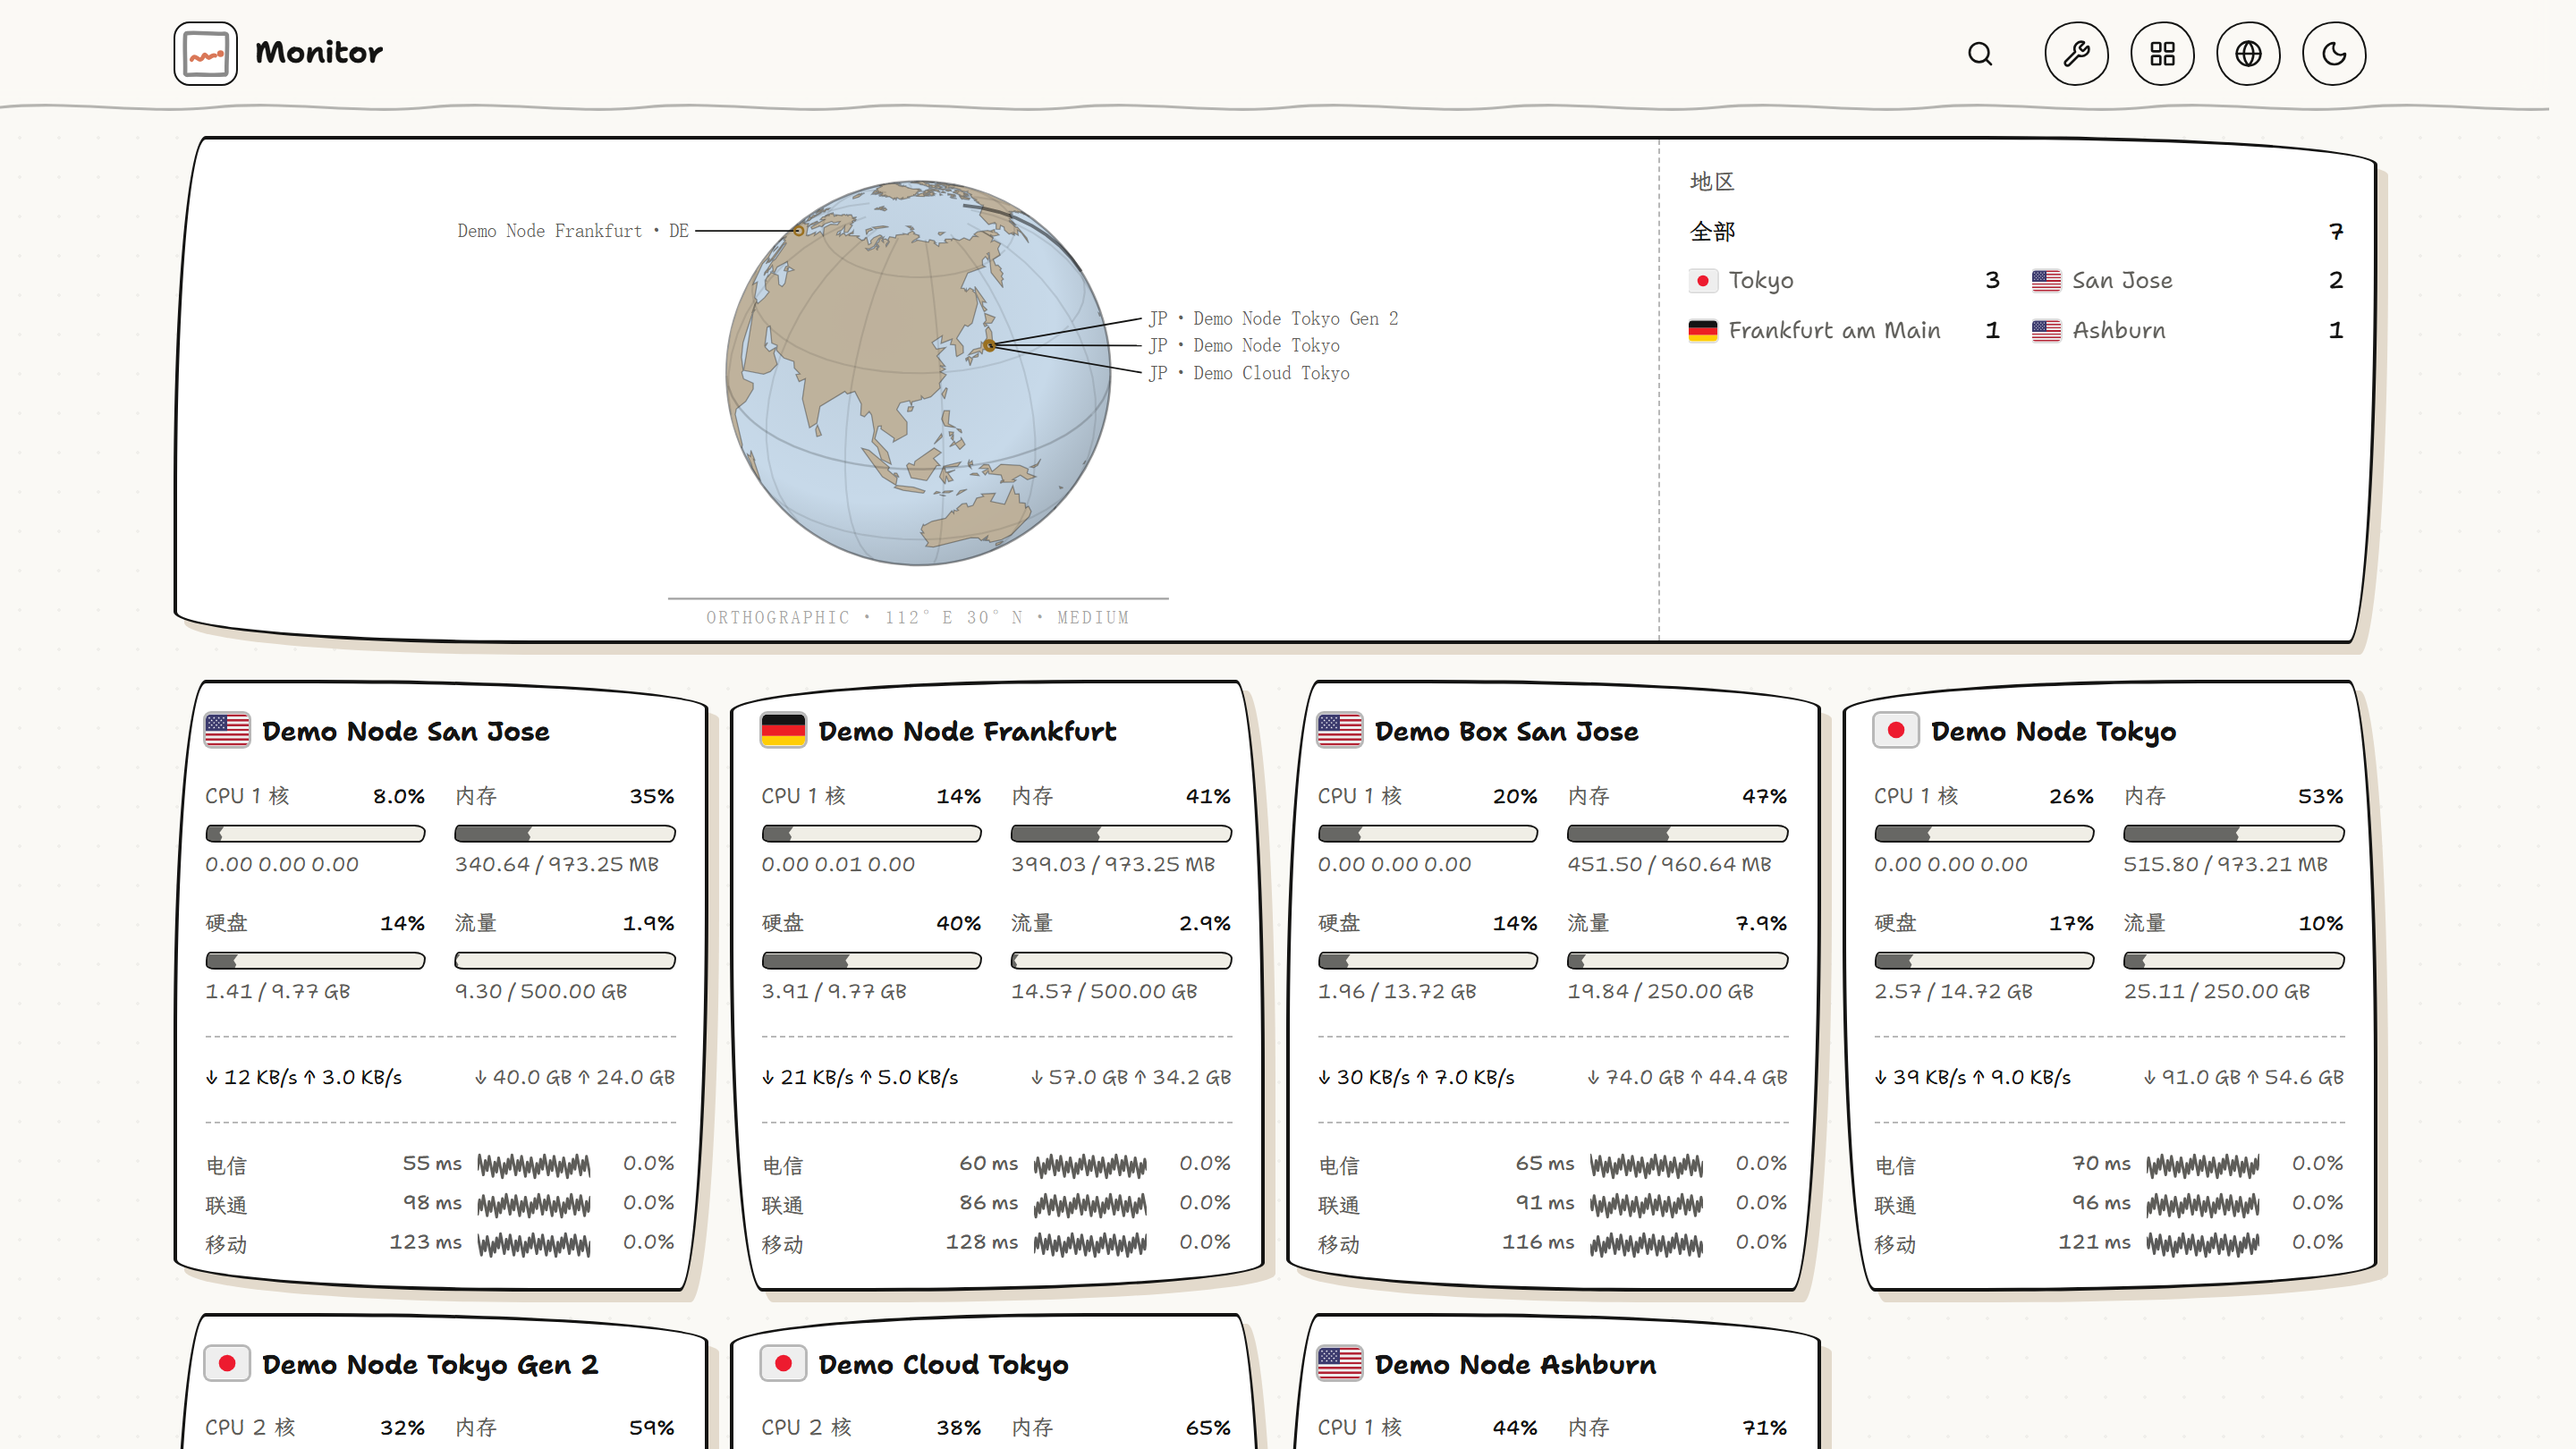
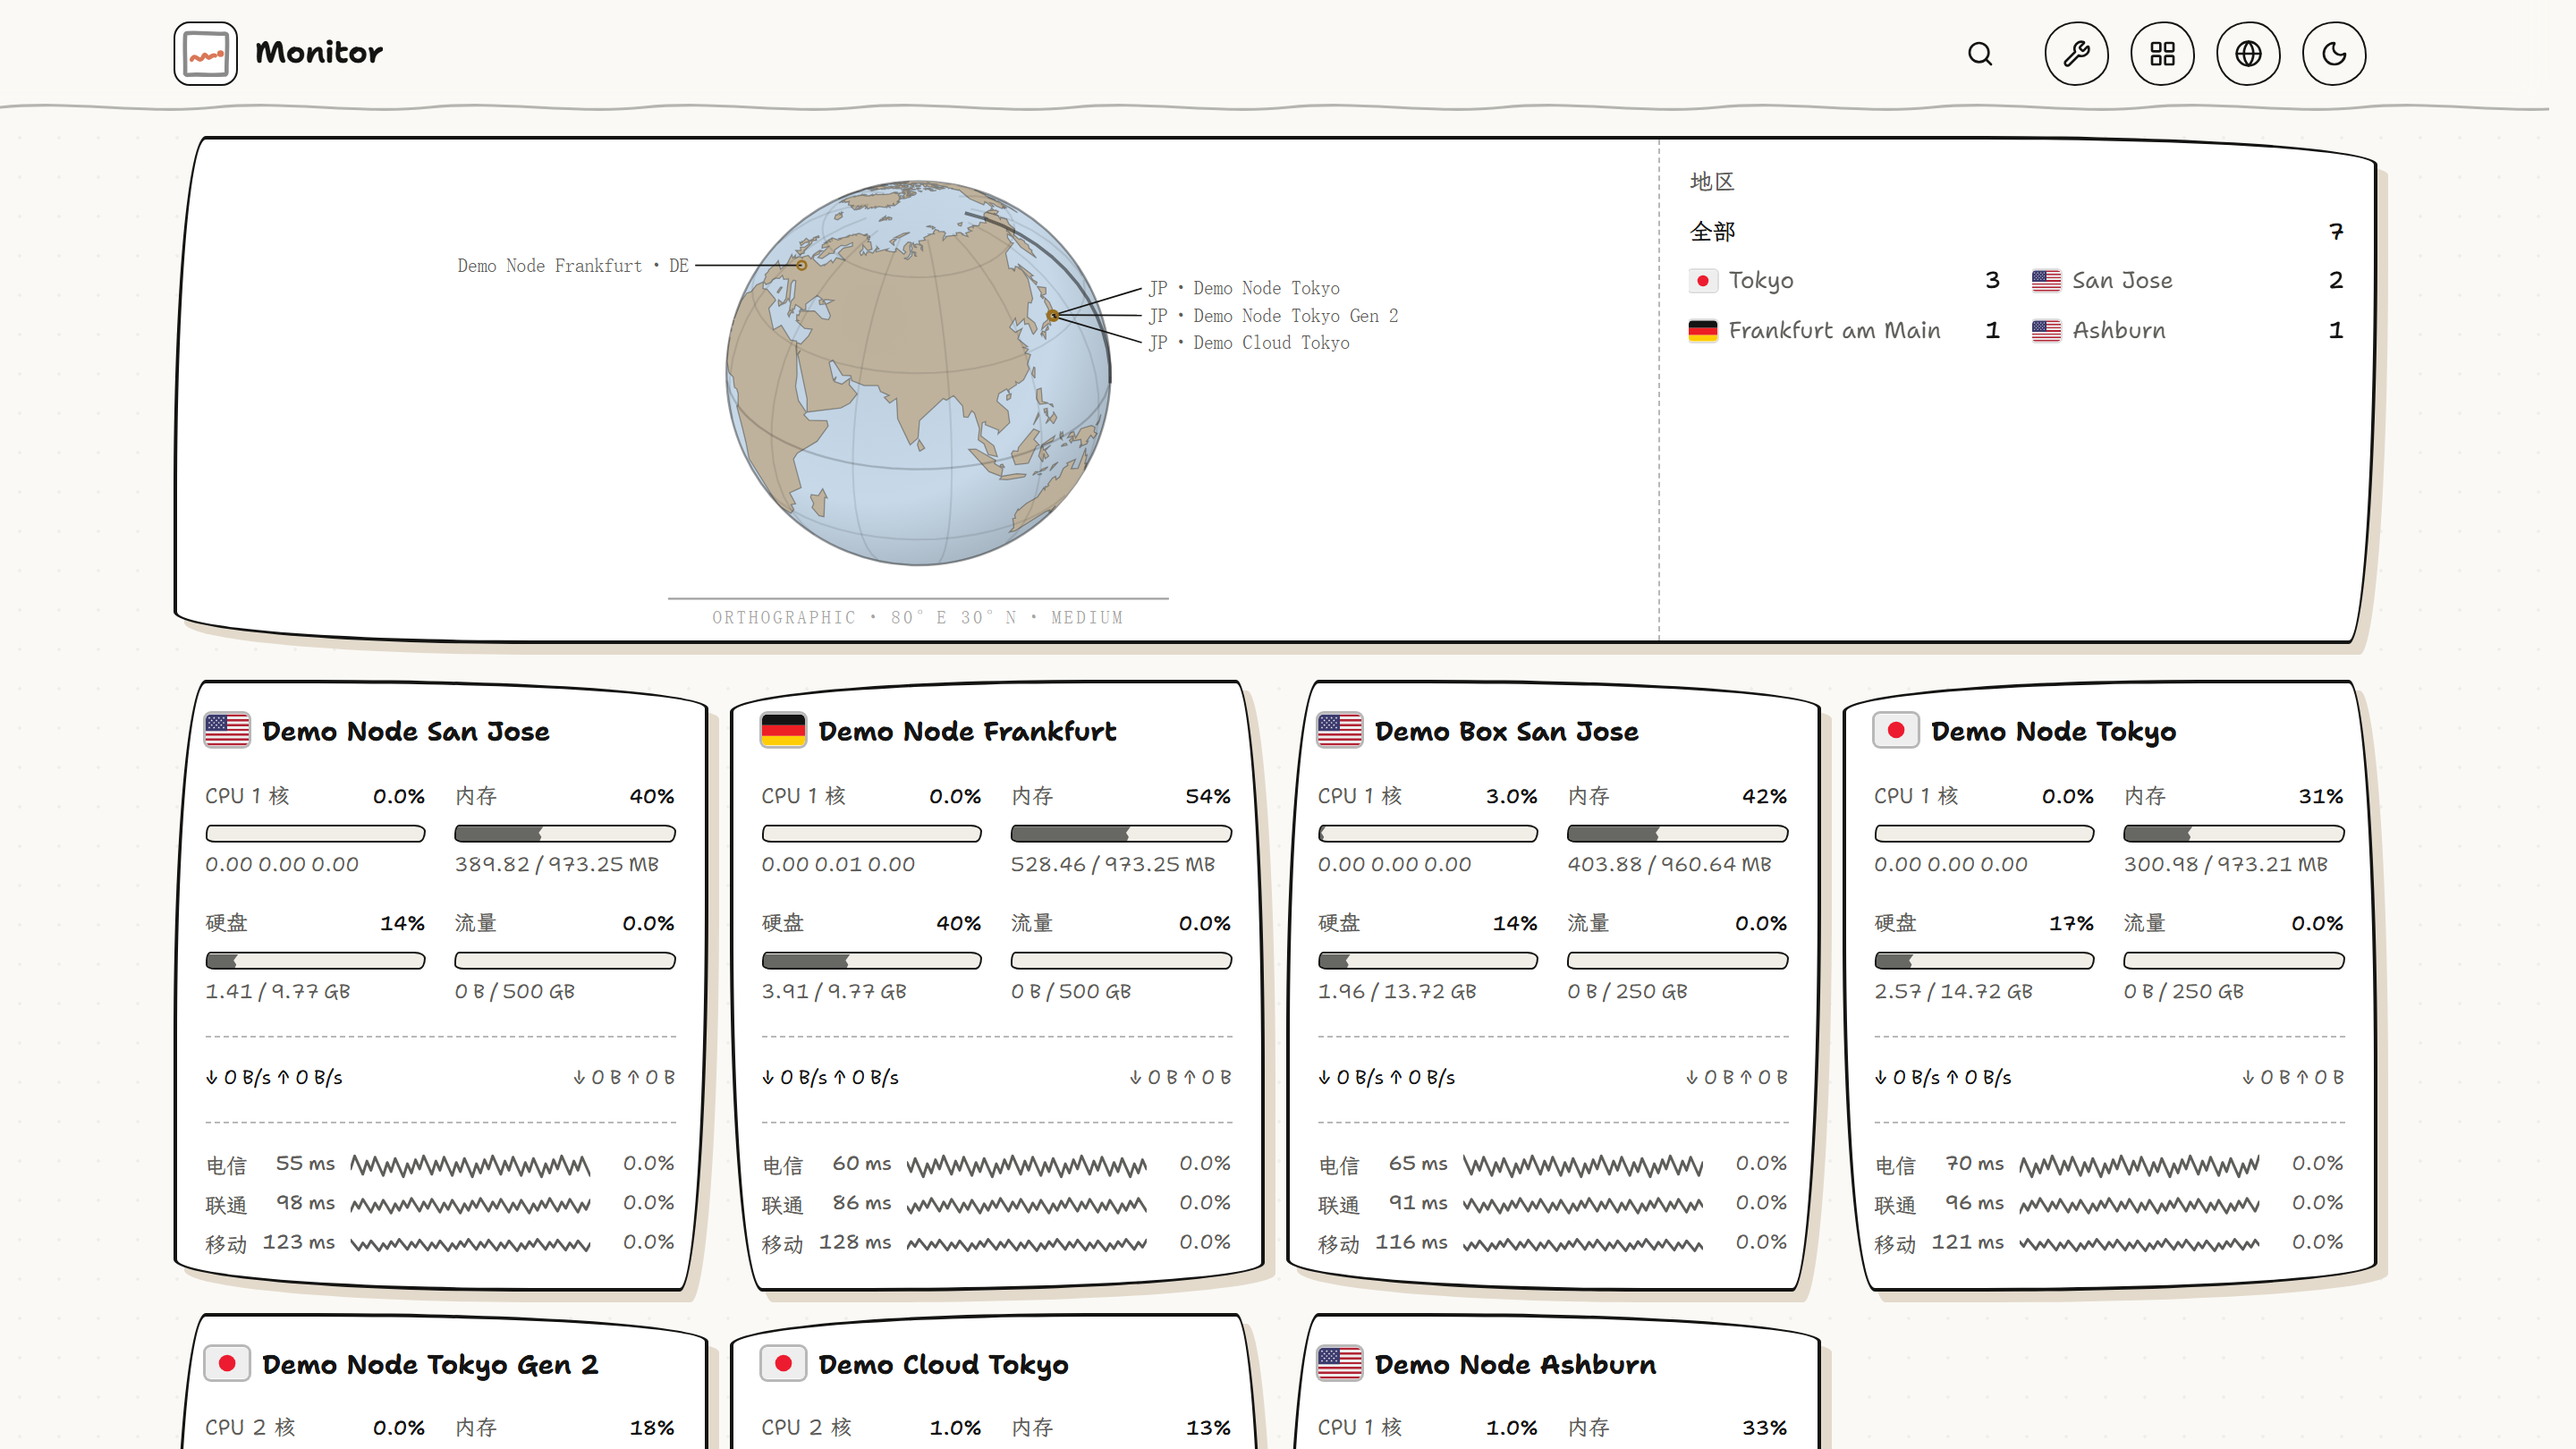
preview.png 换为当前版本实拍（面板缩略图/发布包同图：延迟档新口径、地球与顶栏图标一并落图）+ README 图源升版（preview/globe/latency/detailed）

diff --git a/README.md b/README.md
@@ -1,6 +1,6 @@
 # rakugaki
 
-![rakugaki](preview.png?v=3)
+![rakugaki](preview.png?v=4)
 
 极简探针（[Monitor](https://github.com/monitor-probe/monitor)）的第三方主题，源码基于上游默认主题
 `monitor-theme-default` v1.1.0 改造。纯静态前端，只读 hub 的公开接口，
@@ -11,7 +11,7 @@
 
 节点地球：
 
-![节点地球](preview-globe.png?v=4)
+![节点地球](preview-globe.png?v=5)
 
 列表页顶部那颗正射投影的地球（默认开着；站长在主题设置里关掉＝整块关，顶栏那枚图标也一起
 收起；开着时访客可以自己关，选完记在他自己的浏览器里）。
@@ -30,7 +30,7 @@
 |:---:|:---:|
 | ![简约形态](preview-plain.png?v=5) | ![经典形态](preview-classic.png?v=6) |
 | **延迟形态（默认）** | **详细形态** |
-| ![延迟形态](preview-latency.png?v=6) | ![详细形态](preview-detailed.png?v=5) |
+| ![延迟形态](preview-latency.png?v=7) | ![详细形态](preview-detailed.png?v=6) |
 | **紧凑形态** | |
 | ![紧凑形态](preview-compact.png?v=5) | |
 
